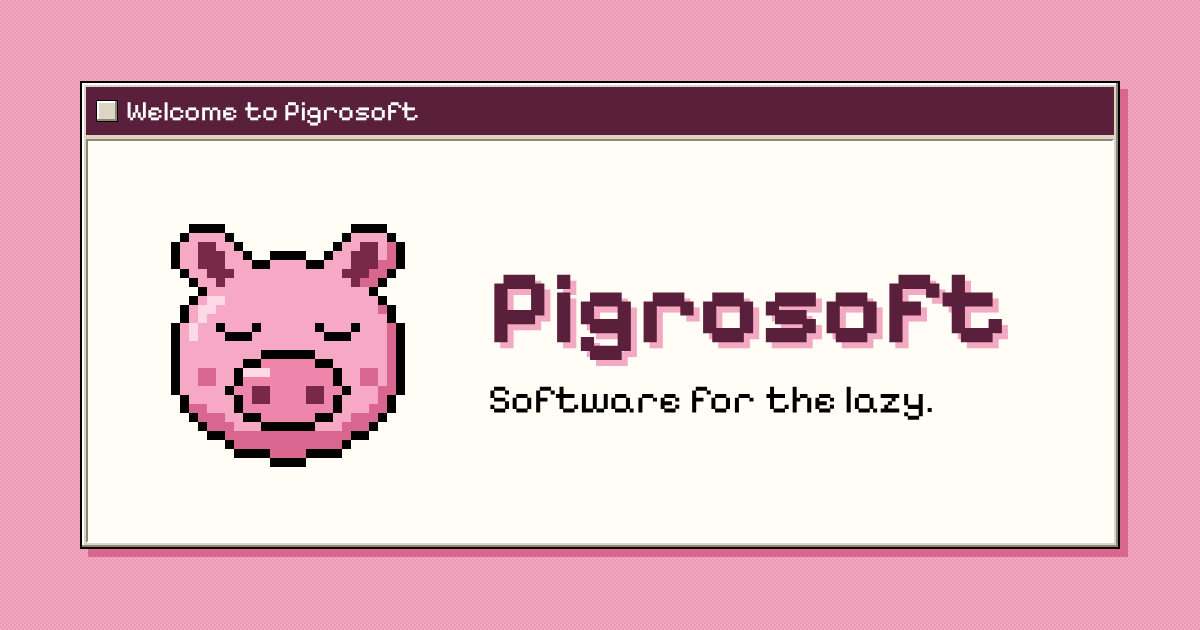
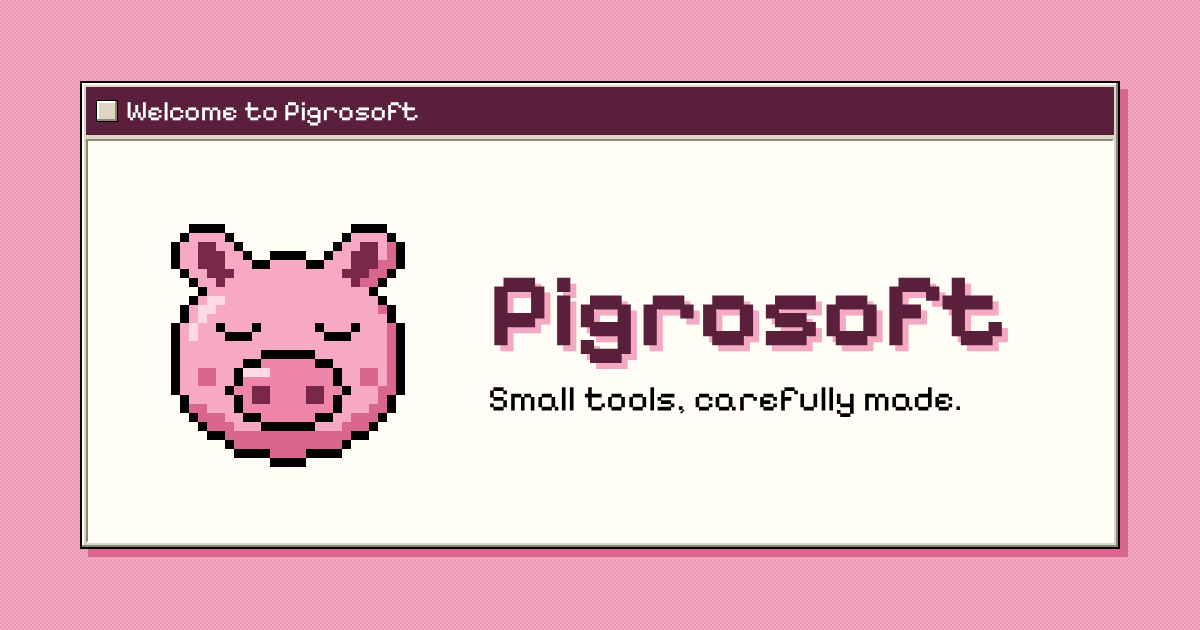
Reposition the copy around well-crafted software
Replace the 'software for the lazy' line with 'Small tools, carefully
made' across the home page, meta tags and share image, and tighten
the company and house-rules copy to match.

Claude-Session: https://claude.ai/code/session_01NgsGFMtdtSsSacPqBkW51D

Changed region(s): [[0.4008, 0.4222, 0.8325, 0.6635], [0.4008, 0.5429, 0.4317, 0.573]]

diff --git a/index.html b/index.html
@@ -3,14 +3,14 @@
 <head>
   <meta charset="utf-8">
   <meta name="viewport" content="width=device-width, initial-scale=1">
-  <title>Pigrosoft: software for the lazy</title>
-  <meta name="description" content="Pigrosoft makes small tools that do one job, open in a second, and never ask you to make an account. Made in Berlin.">
+  <title>Pigrosoft: small tools, carefully made</title>
+  <meta name="description" content="Pigrosoft makes well-crafted software that does one job properly. Small tools, carefully made in Berlin.">
   <link rel="canonical" href="https://pigrosoft.com/">
   <link rel="icon" href="favicon.ico" sizes="32x32">
   <link rel="icon" href="assets/pig.svg" type="image/svg+xml">
   <link rel="apple-touch-icon" href="assets/apple-touch-icon.png">
-  <meta property="og:title" content="Pigrosoft: software for the lazy">
-  <meta property="og:description" content="Small tools that do one job, open in a second, and never ask you to make an account.">
+  <meta property="og:title" content="Pigrosoft: small tools, carefully made">
+  <meta property="og:description" content="Well-crafted software that does one job properly, opens in a second and works without an account.">
   <meta property="og:type" content="website">
   <meta property="og:url" content="https://pigrosoft.com/">
   <meta property="og:image" content="https://pigrosoft.com/assets/og.png">
@@ -47,8 +47,8 @@
           <span class="oink" aria-hidden="true">Oink?</span>
         </button>
         <div>
-          <h1 id="welcome-title">Software for the lazy.</h1>
-          <p>Pigro is Italian for lazy. Pigrosoft makes small tools that do one job, open in a second, and never ask you to make an account.</p>
+          <h1 id="welcome-title">Small tools, carefully made.</h1>
+          <p>Pigrosoft makes well-crafted software that does one job properly. Every tool opens in a second, works without an account, and has had its details fussed over so that you never have to think about them.</p>
           <div class="actions">
             <a class="btn primary" href="#tools">See the tools</a>
             <a class="btn" href="#company">Read me</a>
@@ -94,10 +94,11 @@
         <div class="titlebar" aria-hidden="true">README.TXT</div>
         <div class="pane">
           <h2 id="company-title">The company</h2>
-          <p>Pigrosoft is a one-person software company in Berlin. It is run by Jeff Humble, a product designer who spent fifteen years making software for other people and now makes small tools for himself and anyone with the same problems.</p>
+          <p>Pigrosoft is a one-person software company in Berlin. It is run by Jeff Humble, a product designer with fifteen years of practice, who now puts that care into small tools of his own.</p>
           <p>Every tool follows the same house rules.</p>
           <ul class="rules">
-            <li>One tool, one job.</li>
+            <li>One tool, one job, done properly.</li>
+            <li>Finished before it ships, and looked after once it has.</li>
             <li>No account, no ads, no tracking.</li>
             <li>Runs in your browser, and offline where it can.</li>
             <li>Pay once and keep it. No subscriptions.</li>
@@ -115,7 +116,7 @@
             <dt>Disk space</dt><dd>0 MB</dd>
             <dt>Floppy drive</dt><dd>Not required</dd>
             <dt>Account</dt><dd>None</dd>
-            <dt>Manual</dt><dd>There isn't one</dd>
+            <dt>Manual</dt><dd>Not needed</dd>
           </dl>
         </div>
       </section>
@@ -142,7 +143,7 @@
         </details>
         <details>
           <summary>Why a pig?</summary>
-          <p>Pigro is Italian for lazy, and good software lets you be lazy. The pig is a bonus. Click it and see what happens.</p>
+          <p>Pigro is Italian for lazy. We do the careful work so that you get to be the lazy one. The pig is a bonus, and it wakes up if you click it.</p>
         </details>
       </div>
     </section>
